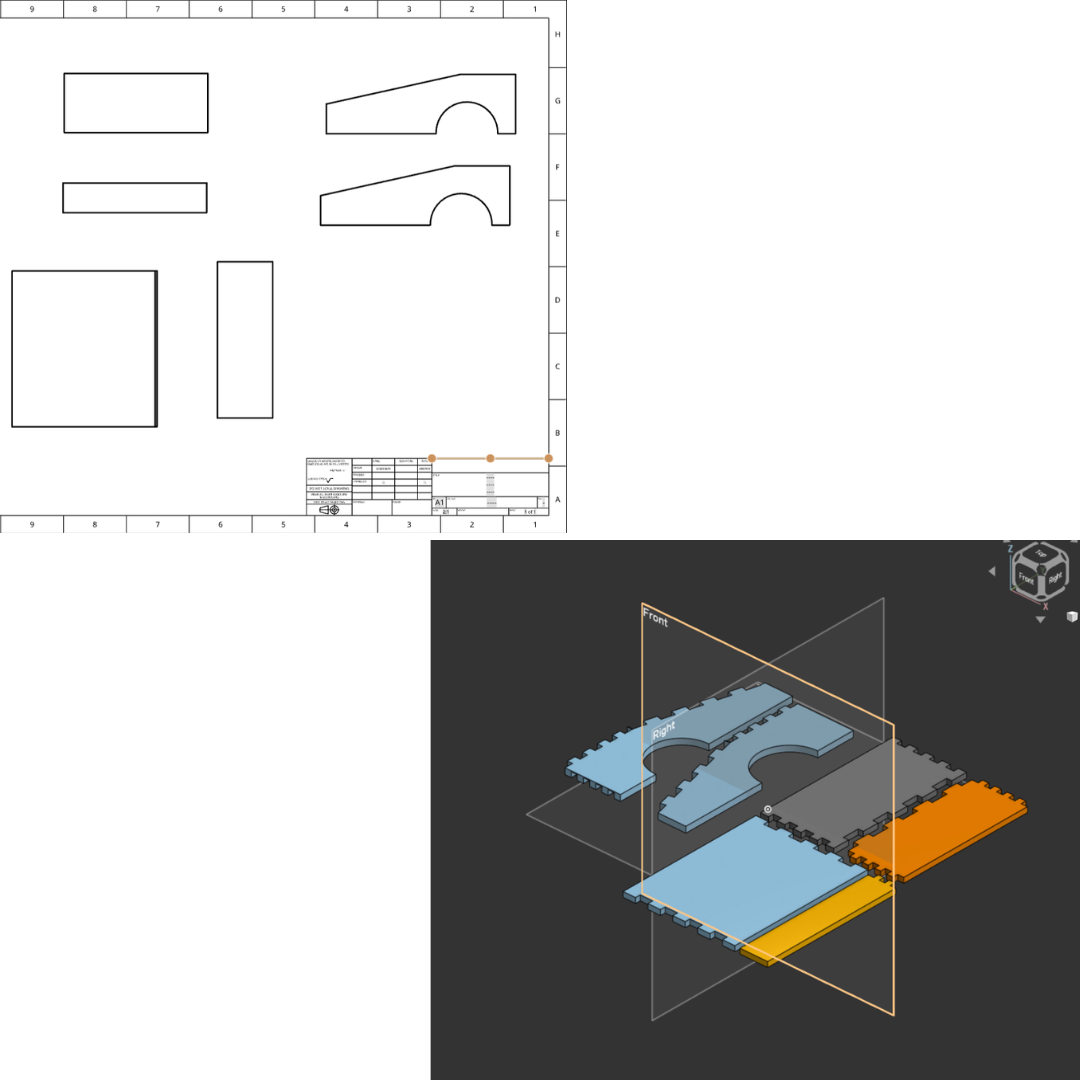
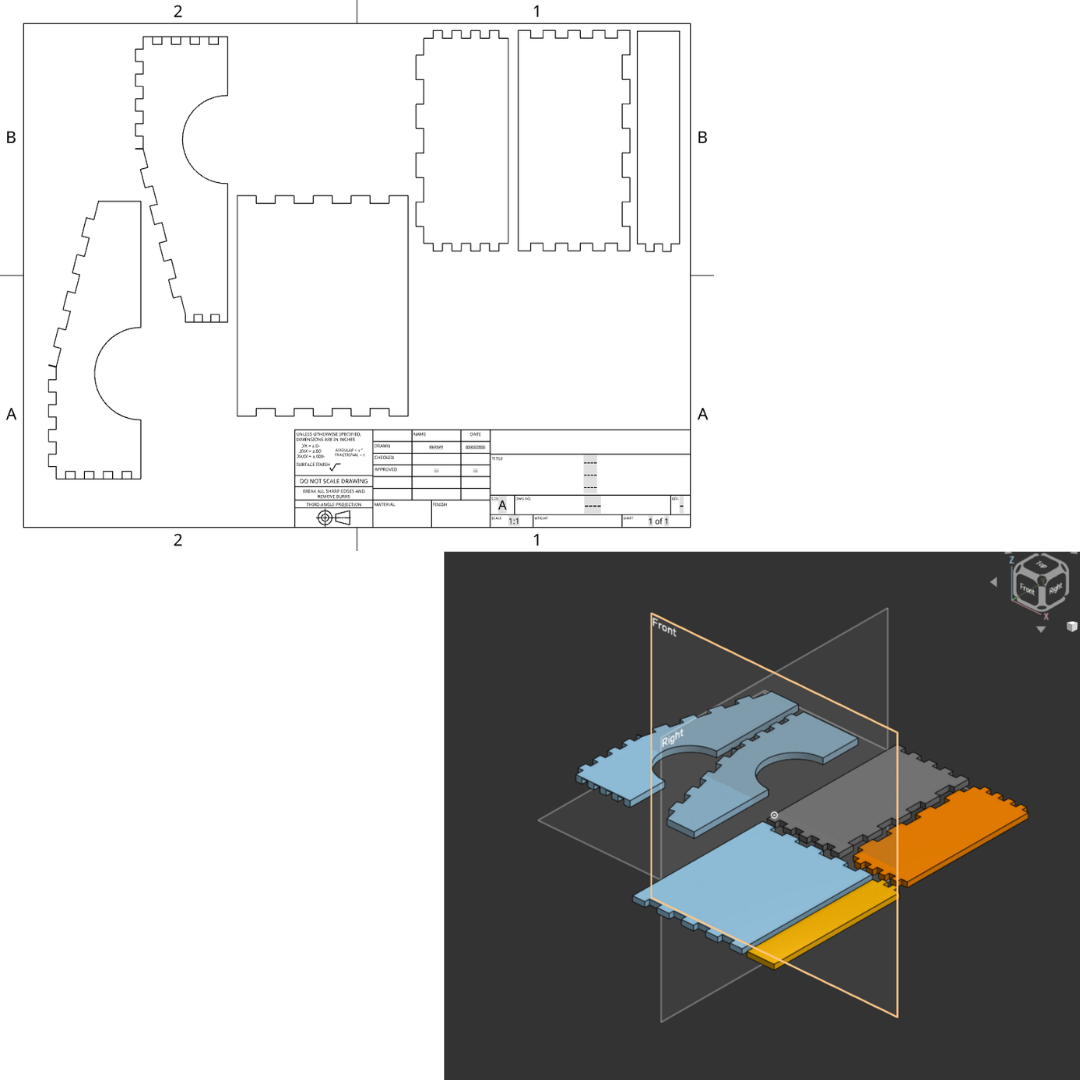
kitcar

diff --git a/projects.html b/projects.html
@@ -547,32 +547,33 @@
 
                                     
                             </p>
-                            <a href="assets/img/portfolio/car-file.png" target="_blank">
-  <img class="img-fluid rounded mb-3" src="assets/img/portfolio/car-file.png" alt="..." />
+                            <a href="assets/img/portfolio/laser-sett.png" target="_blank">
+  <img class="img-fluid rounded mb-3" src="assets/img/portfolio/laser-sett.png" alt="..." />
 </a>
 <a>
-        <p class="fullscreen-hint"><a><b>Figure 4.4 </b>
+        <p class="fullscreen-hint"><a><b>Figure 4.7 </b>
          </a>(Click the image to view fullscreen)
         </p>
 </a>
 
 
                             <p>
-                                        <b><i>Settings Print 2-Black/Grey (pictured above):</i></b>
+                                        <b><i>Settings-Laser Cut (pictured above):</i></b>
                                                         
                                         <li class="mb-2">
-                                            <span class="fw-bold">Total PLA filament used (grams):
+                                            <span class="fw-bold">Power: 100% (less powerful machine)
                                             </span>
-                                             127g (87g-Black (1); 40g-Grey(2))
+                                             Speed: 6000 mm/m; Pass Count: 1
+
                                         </li>
                                         <li class="mb-2">
-                                            <span class="fw-bold">CAD Settings (Bambu Studio):</span>
-                                                    The CAD software I used was Bambu Lab to load my found (.stl) file and later slice it and export as the (.bgcode). The parameters I set within the software are as follows: Print Settings-0.20mm Nozzle, Standard Flow; Filament-Generic PLA; Support-Tree Slim; Printer-Bambu Lab A1
+                                            <span class="fw-bold">CAD used-LightBurn: </span>
+                                                    Lightburn is the software we used in order to transfer our drawing from OnShape, into a Laser cut file for the GRBL software to interpret. 
                                         </li>
 
                                         <li class="mb-0">
-                                            <span class="fw-bold">Print Time:</span>
-                                                               7 hours 50 minutes
+                                            <span class="fw-bold">Laser Cut Time:</span>
+                                                               <10 minutes
                                         </li>
                             </p>
 
@@ -580,7 +581,7 @@
 <!-- Portfolio Modal - Title-->
                 <h2 class="portfolio-modal-title mb-3"><a style="color: orangered;">Issues:</a>
                 </h2>
-                                    <p class="mb-4">The left and right sides of the device had virtually no printing issues whatsoever. The only distortion was a slight fold in the area which the user would insert a screw. However, given the function of the hole, this should not be a major issue. When creating the center of the device I came across a much greater problem. When printing, the print began with a very thin layer of the base of the object but then was trapped in a loop moving from a point A to a point B over and over. This happened twice, until I replaced the (.bgcode). After that the print functioned normally. The cause of this issue seemed to be within the code I uploaded to the machine. I say this after a series of trial-and-error. I first examined the filament, which was properly aligned, I then ensured the plate was of correct height and the nozzle not clogged in anyway. After switching to a second printer, and having the same exact issue I deduced it was an issue with the file. After recreating and reuploading the file, the print succeeded. It is important to note that the filament could have been broken at a certain point when fed into the machine. This is unlikely though, given the same issue occurred on separate machines. However, moving forwards a slight "bend-test" prior to inserting the filament can ensure it has not accumulated too much water.</p>
+                                    <p class="mb-4">TBD..</p>
                                     
 
 
